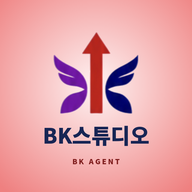
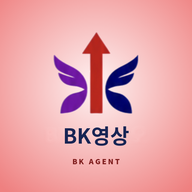
Add files via upload

Changed region(s): [[0.2188, 0.6562, 0.7812, 0.7812]]

diff --git a/index.html b/index.html
@@ -286,7 +286,7 @@
       </div>
     </details>
     <footer class="foot-brand"><button type="button" id="bkFoot" aria-label="BK Agent">BK Agent · 비케이</button></footer>
-<!--BKVER--><style>.bkv{text-align:center;margin:0 0 18px;font-size:.82rem;color:#64748b;line-height:1.6}.bkv>.bkv-n{display:inline-block;padding:3px 12px;border-radius:999px;background:#fff;border:1.5px solid #1e3a8a33;color:#1e3a8a;font-weight:800}.bkv-ok{color:#15803d;font-weight:800;margin-left:6px}.bkv-warn{display:block;color:#b45309;font-weight:800;margin-top:4px}#bkVerUp{display:block;width:auto!important;margin:8px auto 0!important;padding:10px 16px!important;border-radius:12px!important;border:0!important;background:#1e3a8a!important;color:#fff!important;font-weight:800!important;font-size:.92rem!important}#bkVerLog{text-align:left;margin:12px auto 0;max-width:640px;background:#fff;border:2px dashed #f59e0b;border-radius:14px;padding:10px 14px;color:#334155}#bkVerLog summary{cursor:pointer;font-weight:800;color:#92400e}.bkv-e{border-top:1px solid #f1f5f9;padding:8px 0 2px;margin-top:8px}.bkv-e b{color:#1e3a8a}.bkv-e span{color:#94a3b8;font-size:.78rem}.bkv-e ul{margin:4px 0 0;padding-left:18px}.bkv-e li{margin:2px 0}.bkv-new b{background:#fef3c7;padding:0 6px;border-radius:6px}</style><div class="bkv" id="bkVer"><span class="bkv-n">BK영상 v3 · 2026.10.29</span><span id="bkVerSt"></span><details id="bkVerLog" hidden></details></div><script>(function(){var V={"v": "3", "prefix": "bk-studio-", "always": false, "log": [["3", "2026.10.29", ["앱 이름을 BK스튜디오에서 BK영상으로 변경 (홈 화면 아이콘 이름도)", "위쪽에 📱 QR 보여주기 버튼 — 찍으면 BK영상이 바로 열림 · QR 사진 보내기"]], ["2", "2026.10.29", ["🎞 AI 영상 클립 이어 붙이기 — 8초 클립 여러 개 시나리오(기승전결 · 같은 주인공 · 앞 장면에서 이어지게)로 30~60초 한 편", "주인공 · 장소 설정 · AI가 만든 ■ 설정 복사 · 넣은 클립 n/전체 표시", "🎞 클립 여러 개 한꺼번에 넣기(파일 이름 순서) · 📸 끝 장면 저장(다음 클립 시작 그림) · 짧은 클립은 살짝 느리게 늘려 채움"]], ["1", "2026.10.29", ["처음 만듦 — 📝 대본 · 🎙 목소리 · 🎬 장면 · 🎨 꾸미기 · 📤 만들기 5단계", "BK쇼츠의 🎙 말하기 기능(AI 대본 · BK보이스 내 목소리 · 음성 파일 · 녹음 · AI 영상 장면 · 아바타)을 옮겨 옴", "영상 엔진은 BK쇼츠와 같은 것 · 설명서(guide.html) · BK보이스 PC 프로그램 v1.1"]]]};
+<!--BKVER--><style>.bkv{text-align:center;margin:0 0 18px;font-size:.82rem;color:#64748b;line-height:1.6}.bkv>.bkv-n{display:inline-block;padding:3px 12px;border-radius:999px;background:#fff;border:1.5px solid #1e3a8a33;color:#1e3a8a;font-weight:800}.bkv-ok{color:#15803d;font-weight:800;margin-left:6px}.bkv-warn{display:block;color:#b45309;font-weight:800;margin-top:4px}#bkVerUp{display:block;width:auto!important;margin:8px auto 0!important;padding:10px 16px!important;border-radius:12px!important;border:0!important;background:#1e3a8a!important;color:#fff!important;font-weight:800!important;font-size:.92rem!important}#bkVerLog{text-align:left;margin:12px auto 0;max-width:640px;background:#fff;border:2px dashed #f59e0b;border-radius:14px;padding:10px 14px;color:#334155}#bkVerLog summary{cursor:pointer;font-weight:800;color:#92400e}.bkv-e{border-top:1px solid #f1f5f9;padding:8px 0 2px;margin-top:8px}.bkv-e b{color:#1e3a8a}.bkv-e span{color:#94a3b8;font-size:.78rem}.bkv-e ul{margin:4px 0 0;padding-left:18px}.bkv-e li{margin:2px 0}.bkv-new b{background:#fef3c7;padding:0 6px;border-radius:6px}</style><div class="bkv" id="bkVer"><span class="bkv-n">BK영상 v4 · 2026.10.29</span><span id="bkVerSt"></span><details id="bkVerLog" hidden></details></div><script>(function(){var V={"v": "4", "prefix": "bk-studio-", "always": false, "log": [["4", "2026.10.29", ["앱 아이콘 글자를 BK영상으로 새로 만듦 (둥근 아이콘에 BK라이선스로 나오던 것 고침)", "다른 BK 앱과 같은 앱으로 착각해 '이미 설치됨'이 뜨던 문제 고침 (앱 고유번호 따로 지정)"]], ["3", "2026.10.29", ["앱 이름을 BK스튜디오에서 BK영상으로 변경 (홈 화면 아이콘 이름도)", "위쪽에 📱 QR 보여주기 버튼 — 찍으면 BK영상이 바로 열림 · QR 사진 보내기"]], ["2", "2026.10.29", ["🎞 AI 영상 클립 이어 붙이기 — 8초 클립 여러 개 시나리오(기승전결 · 같은 주인공 · 앞 장면에서 이어지게)로 30~60초 한 편", "주인공 · 장소 설정 · AI가 만든 ■ 설정 복사 · 넣은 클립 n/전체 표시", "🎞 클립 여러 개 한꺼번에 넣기(파일 이름 순서) · 📸 끝 장면 저장(다음 클립 시작 그림) · 짧은 클립은 살짝 느리게 늘려 채움"]], ["1", "2026.10.29", ["처음 만듦 — 📝 대본 · 🎙 목소리 · 🎬 장면 · 🎨 꾸미기 · 📤 만들기 5단계", "BK쇼츠의 🎙 말하기 기능(AI 대본 · BK보이스 내 목소리 · 음성 파일 · 녹음 · AI 영상 장면 · 아바타)을 옮겨 옴", "영상 엔진은 BK쇼츠와 같은 것 · 설명서(guide.html) · BK보이스 PC 프로그램 v1.1"]]]};
 function $(i){return document.getElementById(i)}
 var adm=function(){try{return V.always||localStorage.getItem('bkAdmin')==='1'}catch(e){return !!V.always}};
 var box=$('bkVer'),st=$('bkVerSt'),lg=$('bkVerLog');

diff --git a/sw.js b/sw.js
@@ -1,5 +1,5 @@
 /* sw.js — 오프라인 캐시: 앱 파일은 인터넷 우선(업데이트 바로 반영) · 끊기면 저장본, 구글 폰트는 받아 둔 것 재사용 */
-const VERSION = 'bk-studio-v3';
+const VERSION = 'bk-studio-v4';
 const FONTS = 'bk-studio-fonts';
 /* 같은 주소(bangkeukryul.github.io)를 BK톡톡 · BK쇼츠와 함께 쓰므로, 지울 때는 BK영상 것('bk-studio-'로 시작)만 지운다 */
 const APP = ['./', './index.html', './style.css', './studio.js', './talk.js', './engine.js', './mp4mux.js', './music.js', './admin.js', './license.js', './qr.js',
